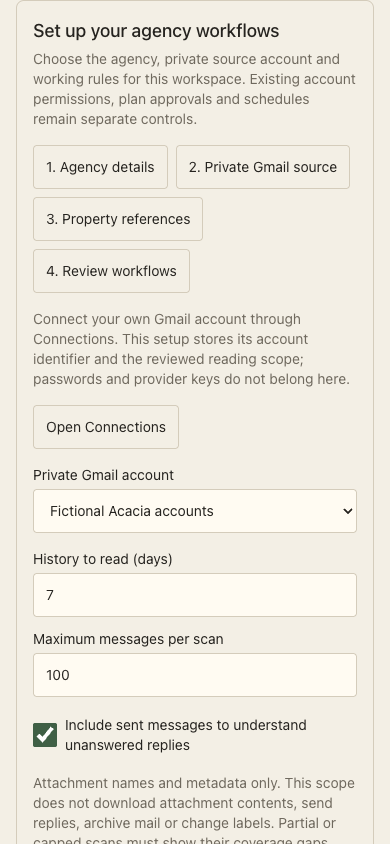
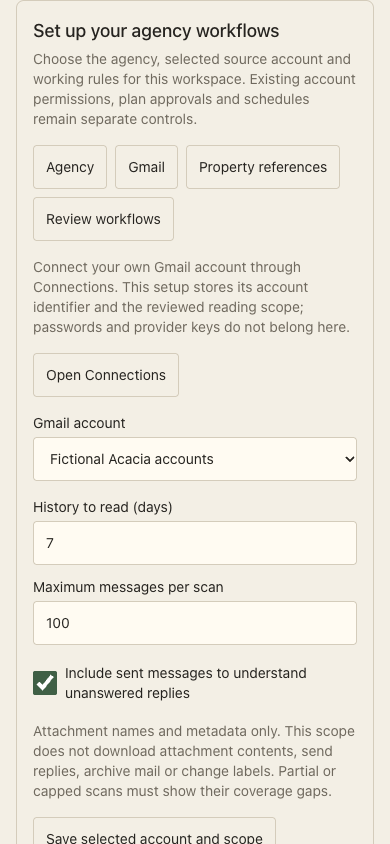
Keep idle instruction history in the owner section
"Bud's instruction improvements" stays in view only while a suggestion,
history archival or upgrade hold waits for review; otherwise it moves
into "More setup options (office owner)". Refresh setup checks stays
visible. qa-agency-mail uses the new tab names; qa-customer-packs and
qa-skill-history open the owner section before instruction history.

diff --git a/src/components/schedule/CustomerPackSetupCard.tsx b/src/components/schedule/CustomerPackSetupCard.tsx
@@ -38,6 +38,8 @@ export function OfficePacks({ view, busy, onPreview, onRefresh }: { view: Office
       </>}
   </section>;
 }
+/** A pending suggestion, archival or upgrade hold is a review item and stays in view; otherwise instruction history is owner setup. */
+export const skillReviewPending = (state: PackSkillReviewState) => state.proposals.length > 0 || state.pendingUpgrades.length > 0 || state.skillHistories.some(history => !!history.pendingArchive);
 /** Staff see office packs, previews, installed packs and recovery. Owner-only setup sits in one collapsed section; `moreOptions` joins it. */
 export function CustomerPackSetupCard({ onInstalled, moreOptions }: { onInstalled?: () => void | Promise<void>; moreOptions?: ReactNode }) {
   const [installed, setInstalled] = useState<CustomerPackInstallation[]>([]);
@@ -66,6 +68,8 @@ export function CustomerPackSetupCard({ onInstalled, moreOptions }: { onInstalle
       const upgraded=await api('/api/customer-packs/upgrade/preview',{method:'POST',body:JSON.stringify({pack})}); if(alive.current)setChange(upgraded);
     } else setPreview(result);
   };
+  const skillsNeedReview = !!skills && skillReviewPending(skills);
+  const skillReview = skills && <PackSkillReview state={skills} busy={busy} run={run} reload={async () => { await load(); await onInstalled?.(); }} notice={message => { if (alive.current) setNotice(message); }} mutate={(route, body, message) => void run(async () => { try { await api(route, { method: 'POST', body: JSON.stringify(body) }, { timeoutMs: 30_000 }); } finally { await load(); await onInstalled?.(); } if (alive.current) setNotice(message); })} />;
   const download = async (packId: 'office-core' | 'austin-office' | 'department-starters') => {
     const pack = await api(`/api/customer-packs/${packId}/export`);
     const url = URL.createObjectURL(new Blob([JSON.stringify(pack, null, 2)], { type: 'application/json' }));
@@ -111,7 +115,7 @@ export function CustomerPackSetupCard({ onInstalled, moreOptions }: { onInstalle
       <CustomerPackHistory pack={pack} busy={busy} run={run} reload={load} notice={setNotice} showChange={result => { setPreview(null); setChange(result); }} />
       <details><summary className="min-h-11 cursor-pointer text-sm">Installation receipt and update policy</summary><p className="text-sm text-ink-secondary">{pack.receipt.note}</p><p className="mt-2 text-sm">Bud may suggest a reviewed instruction revision below. Published pack content is retained separately; worker safeguards and permissions are unchanged.</p></details>
     </article>)}
-    {skills && <PackSkillReview state={skills} busy={busy} run={run} reload={async () => { await load(); await onInstalled?.(); }} notice={message => { if (alive.current) setNotice(message); }} mutate={(route, body, message) => void run(async () => { try { await api(route, { method: 'POST', body: JSON.stringify(body) }, { timeoutMs: 30_000 }); } finally { await load(); await onInstalled?.(); } if (alive.current) setNotice(message); })} />}
+    {skillsNeedReview && skillReview}
     <button className={button} disabled={busy} onClick={() => void run(load)}>Refresh setup checks</button>
     {error && <p role="alert" className="text-sm text-danger">{error}</p>}
     <p role="status" className="text-sm text-ink-secondary">{busy ? 'Checking local pack setup…' : notice}</p>
@@ -140,6 +144,7 @@ export function CustomerPackSetupCard({ onInstalled, moreOptions }: { onInstalle
         <button className={button} disabled={busy} onClick={() => void run(() => download('austin-office'))}>Download Auston pack</button>
       </div></div>
       <p className="text-sm text-ink-secondary">Office core uses your agency’s own identity and reviewed sources. Auston remains a separate customer pack. After import, explicitly choose which pack this agency uses in the Agency step below.</p>
+      {!skillsNeedReview && skillReview}
       {moreOptions}
     </div></details>
   </section>;

diff --git a/src/components/schedule/CustomerPackSetupCard.test.ts b/src/components/schedule/CustomerPackSetupCard.test.ts
@@ -5,7 +5,8 @@ import type { CustomerPack, OfficePacksView } from '@shared/customer-packs';
 
 vi.mock('@/state/store', () => ({ api: vi.fn(), useStore: () => ({ state: {}, dispatch: vi.fn() }) }));
 
-import { CustomerPackSetupCard, OfficePacks, parseOfficePacksView } from './CustomerPackSetupCard';
+import { CustomerPackSetupCard, OfficePacks, parseOfficePacksView, skillReviewPending } from './CustomerPackSetupCard';
+import type { PackSkillReviewState } from './PackSkillReview';
 
 const pack = { id: 'austin-accounts', revision: 2, title: 'Fictional accounts role' } as CustomerPack;
 const ready: OfficePacksView = { state: 'ready', packs: [{ id: 'austin-accounts', title: 'Fictional accounts role', revision: 2, digest: 'd'.repeat(64), pack }], refused: [{ id: 'fictional-other', revision: 1, reason: "This pack isn't signed by RealBud, so it wasn't installed." }] };
@@ -48,5 +49,13 @@ describe('Packs from your office', () => {
     expect(html.endsWith('</details></section>')).toBe(true);
     expect(html.slice(more).match(/<details/g)).toHaveLength(1);
     expect(html).not.toContain('Local file checks');
+  });
+
+  it('keeps instruction review in view only while something waits for review', () => {
+    const idle = { proposals: [], revisions: [], skillHistories: [{ pendingArchive: null }], hasMore: false, pendingUpgrades: [], learning: { supported: true, policyReady: true, enabled: true } } as unknown as PackSkillReviewState;
+    expect(skillReviewPending(idle)).toBe(false);
+    expect(skillReviewPending({ ...idle, proposals: [{}] } as unknown as PackSkillReviewState)).toBe(true);
+    expect(skillReviewPending({ ...idle, pendingUpgrades: [{ packId: 'p', digest: 'd' }] })).toBe(true);
+    expect(skillReviewPending({ ...idle, skillHistories: [{ pendingArchive: { expectedPreviewDigest: 'd' } }] } as unknown as PackSkillReviewState)).toBe(true);
   });
 });
